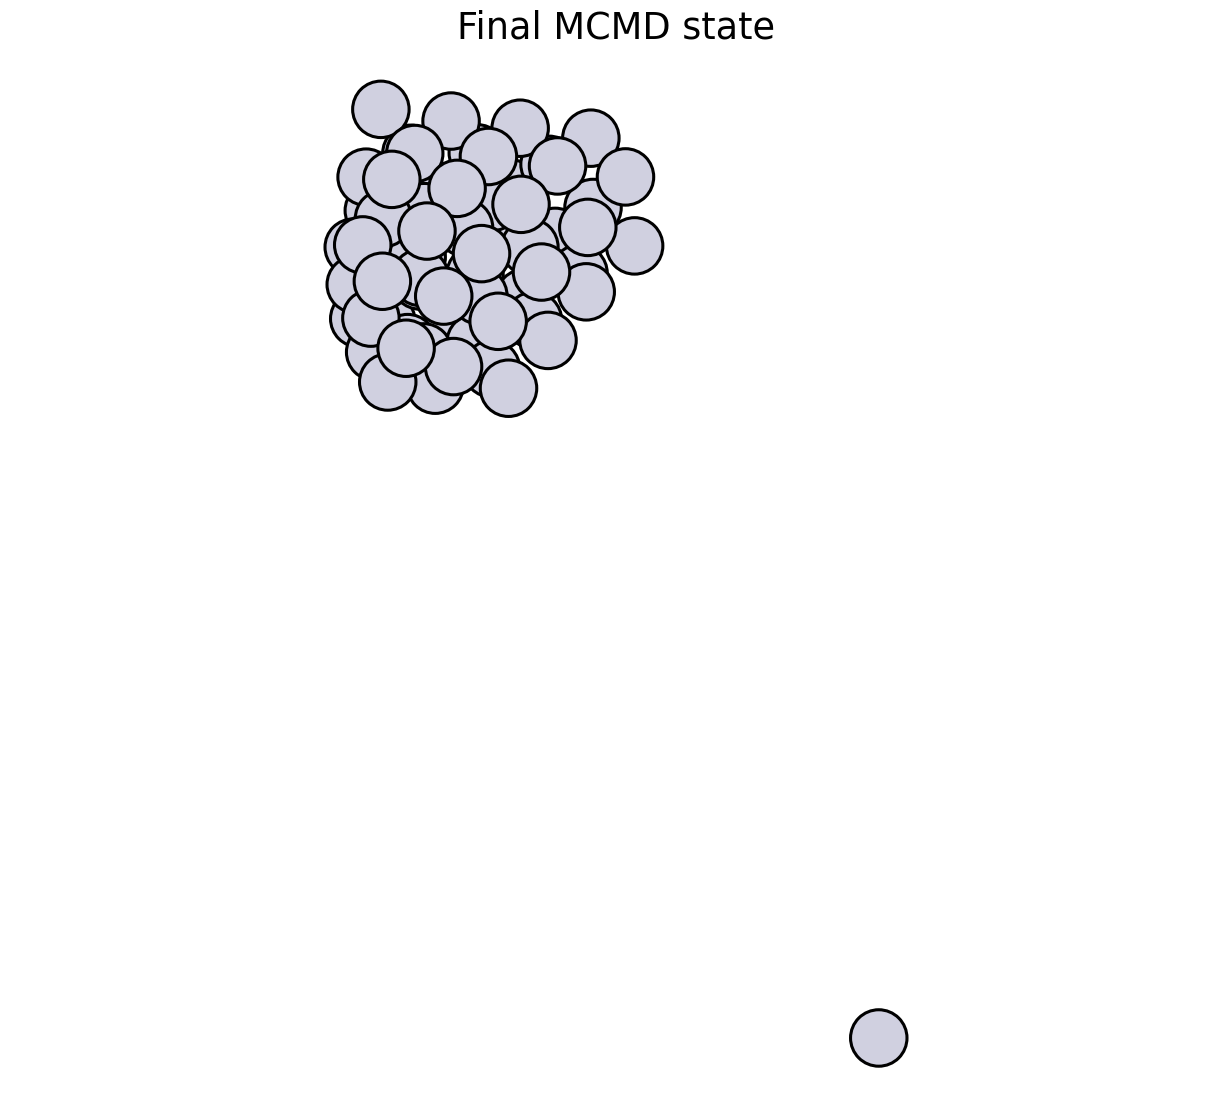
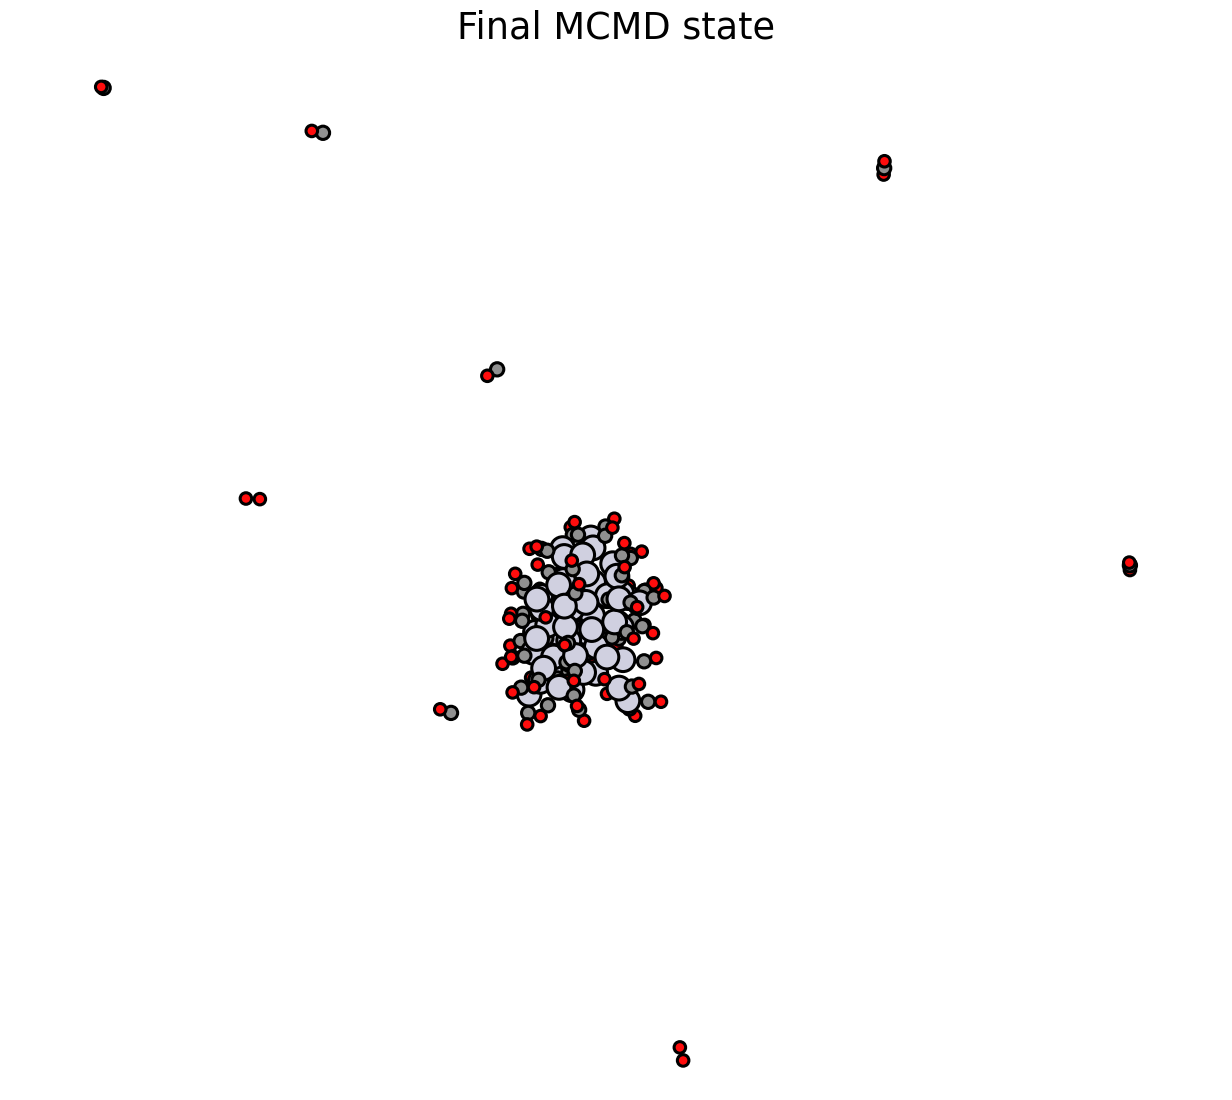
Update MCMD quickstart figures

diff --git a/docs/source/quickstart.rst b/docs/source/quickstart.rst
@@ -7,6 +7,12 @@ runs a simple CO adsorption/desorption MCMD loop. The runnable example defaults
 to ORB-V3 on CPU with the conservative infinite-neighbor model. ASE EMT is kept
 as a fast fallback for testing the mechanics of the workflow.
 
+The goal of this tutorial is to show how a voxel surface mask can drive trial
+move generation. The ORB-V3 settings used here are convenient for a compact
+demonstration, but the output should be treated as qualitative unless the
+calculator, chemical potential, sampling length, and adsorption model have been
+validated for the system being studied.
+
 The complete script is available at
 ``examples/mc/orb_v3_co_mcmd.py``.
 
@@ -173,6 +179,12 @@ Run a short ORB-V3 CPU MCMD example with:
 To regenerate the same documentation figures on a GPU, change ``--device cpu``
 to ``--device cuda``.
 
+The figures shown below were generated from a longer GPU run so that adsorption,
+desorption, and MD propagation are all visible. They are intended to demonstrate
+the AtomVoxelizer workflow rather than to report a converged ORB-V3 prediction
+for CO/Pt adsorption. In particular, the general ORB-V3 model can place some CO
+in weakly bound or desorbed configurations during this compact tutorial run.
+
 For a quick mechanics check without ORB, pass ``--calculator emt --steps 5
 --md-steps 1``. EMT is not intended to be a chemically meaningful CO/Pt model
 here; it is just useful for checking the control flow.
@@ -185,7 +197,9 @@ writes an ASE trajectory by default:
 
    examples/mc/orb_v3_co_mcmd.traj
 
-The image below shows the final nanoparticle state from the MCMD run.
+The image below shows the final nanoparticle state from the MCMD run, including
+CO molecules that remain near the nanoparticle and CO molecules that have moved
+into the padded finite-cell region.
 
 .. image:: _static/quickstart_co_mcmd_final.png
    :alt: Final ASE-rendered nanoparticle state after voxel-guided CO MCMD

diff --git a/docs/source/examples.rst b/docs/source/examples.rst
@@ -123,7 +123,9 @@ sites, and runs CO adsorption/desorption MCMD. The default calculator is the
 conservative ORB-V3 infinite-neighbor model on CPU. ASE EMT is available with
 ``--calculator emt`` for quick control-flow checks. Coverage is counted as
 ``N_CO / N_surface_atoms`` and adsorption is capped by ``--max-coverage`` so the
-number of sampled voxel sites does not define the maximum CO loading.
+number of sampled voxel sites does not define the maximum CO loading. This is a
+workflow demonstration; the ORB-V3 tutorial settings are not presented as a
+validated CO/Pt adsorption model.
 
 .. code-block:: bash
 